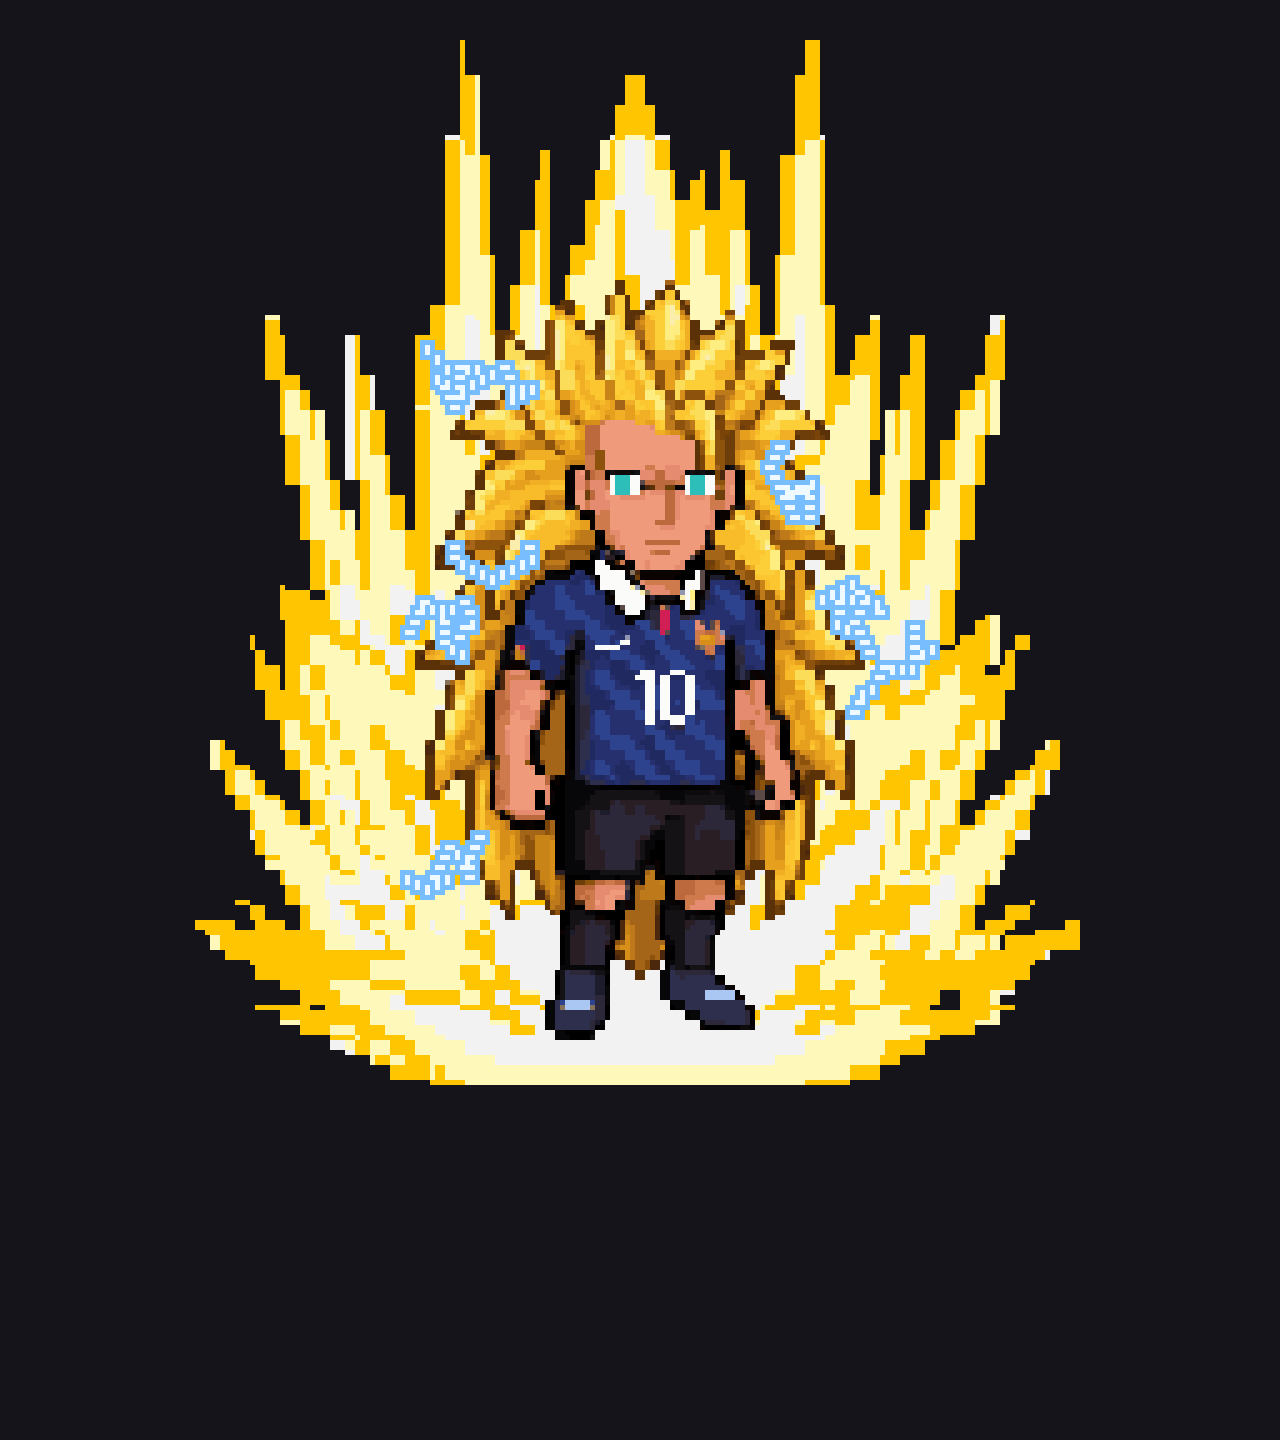
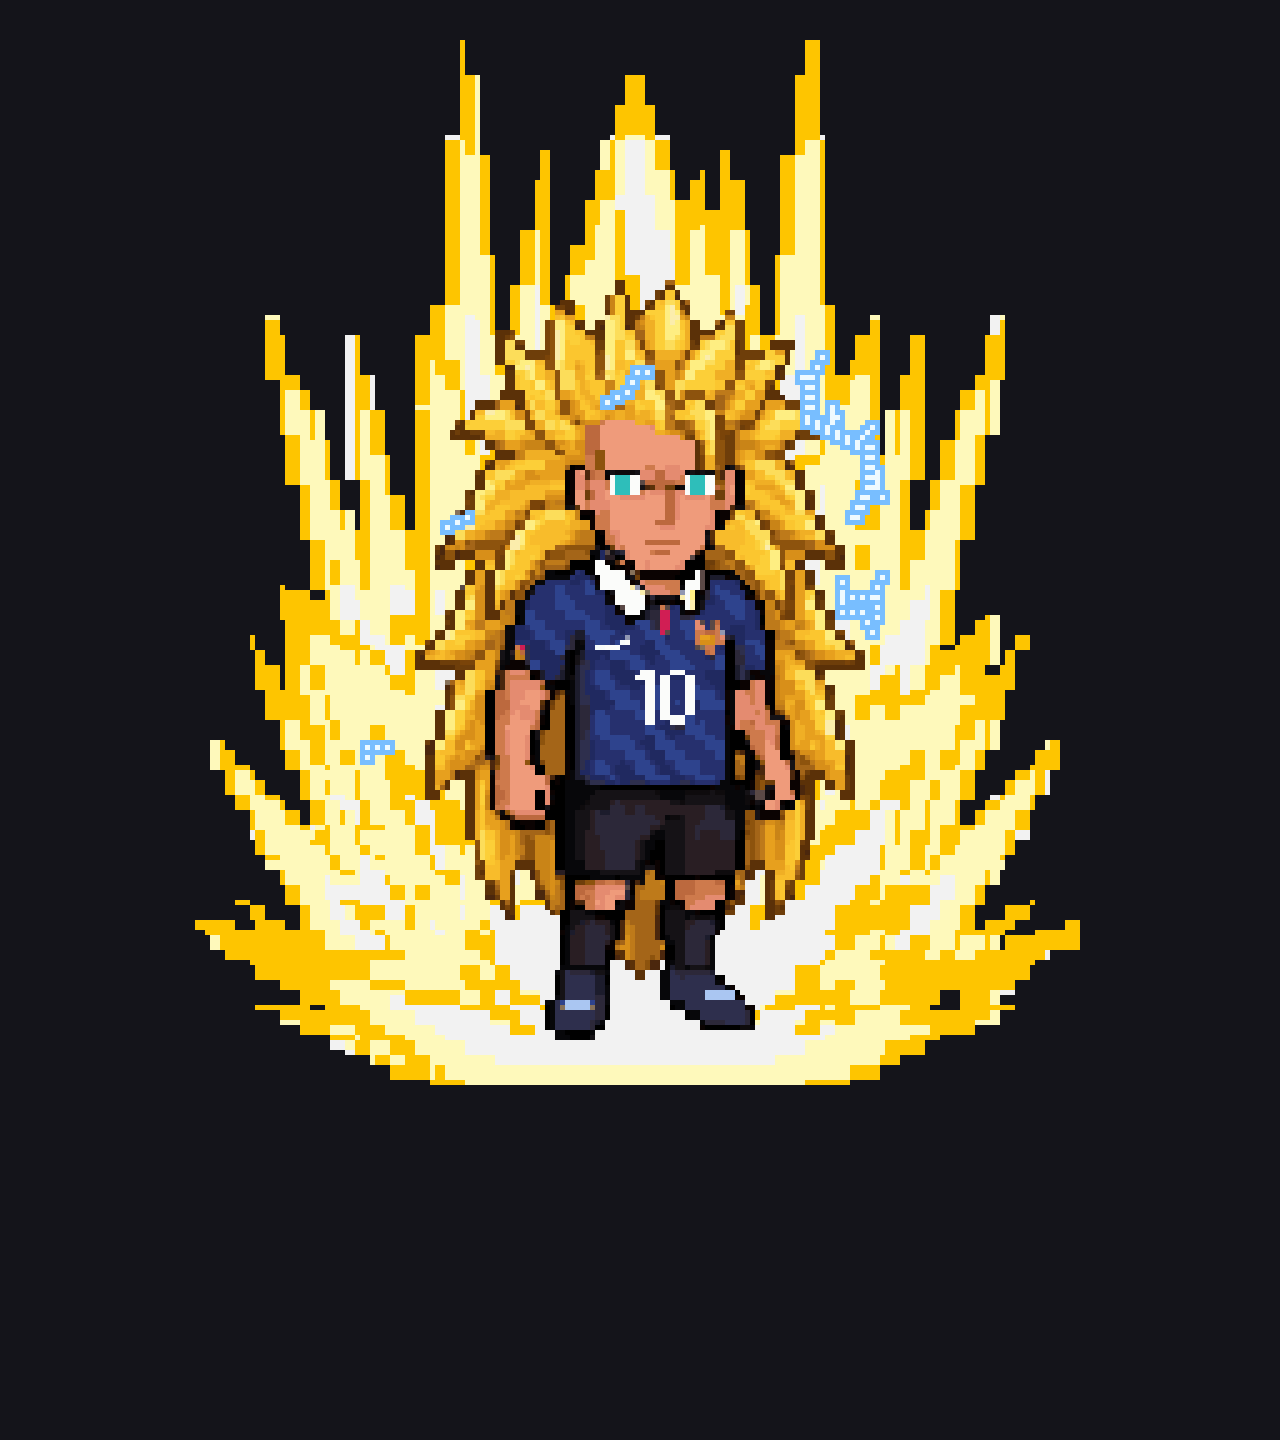
Replace the review page with the SSJ3 final lightning candidate

diff --git a/index.html b/index.html
@@ -1,4 +1,4 @@
-<title>SSJ3 Static Lightning</title>
+<title>SSJ3 Lightning Final</title>
 <style>
 :root{color-scheme:dark light;--bg:#101014;--panel:#1a1a21;--line:#2c2c36;
  --ink:#eef0f6;--dim:#9aa0ad;--gold:#e8b544;--arc:#8fd0ff}
@@ -18,33 +18,27 @@ figure{margin:0;background:var(--panel);border:1px solid var(--line);
  border-radius:10px;padding:10px}
 figcaption{color:var(--dim);font-size:11.5px;margin-top:8px}
 img{image-rendering:pixelated;display:block;border-radius:4px;max-width:100%;height:auto}
-.scroll{overflow-x:auto;padding-bottom:6px}
-.scroll figure{display:inline-block}
-.scroll img{max-width:none}
 .lead{max-width:72ch;color:var(--dim);margin:22px 0 0}
 </style>
-<h1>Current Review — SSJ3 Static Lightning Polish</h1>
-<p class="sha">Commit <code>44fc1d3</code></p>
-<p class="lead">SSJ3's electricity is now static discharge rather than sweeping bolts:
-about a quarter as many arcs, each roughly three times thicker, shorter, and clinging
-close to the body and hair. SSJ2 is unchanged.</p>
+<h1>Current Review — SSJ3 Lightning Final Polish</h1>
+<p class="sha">Commit <code>007ea20</code></p>
+<p class="lead">The stroke is about a fifth slimmer, and arc sizes now range from
+small pops to occasional long discharges rather than all being one size. Every frame
+carries a different mix. SSJ2 is unchanged.</p>
 
 <section>
 <h2>SSJ3 Charging Idle</h2>
-<p class="sub">Static crawling around the shoulders, arms and outer hair</p>
+<p class="sub">Slimmer stroke, varied arc sizes, still body-hugging static</p>
 <div class="row">
 <figure><img src="v4/seq/ssj3_idle/ssj3_idle_composite.gif" width="256" alt="SSJ3 idle">
 <figcaption>Normal speed</figcaption></figure>
 <figure><img src="v4/seq/ssj3_idle/ssj3_idle_composite_slow.gif" width="256" alt="SSJ3 idle slow">
 <figcaption>Slow</figcaption></figure>
 </div>
-<div class="row scroll"><figure><img src="v4/seq/closeups/ssj3_static_arcs_6x.png"
-alt="SSJ3 arc close-up"><figcaption>Arc character, 6&times;</figcaption></figure></div>
 </section>
 
 <section>
 <h2>SSJ2 &rarr; SSJ3</h2>
-<p class="sub">Arcs step up from the approved SSJ2 lightning to SSJ3 static</p>
 <div class="row">
 <figure><img src="v4/seq/ssj2_to_ssj3/ssj2_to_ssj3_composite.gif" width="256" alt="SSJ2 to SSJ3">
 <figcaption>Normal speed</figcaption></figure>
@@ -54,14 +48,7 @@ alt="SSJ3 arc close-up"><figcaption>Arc character, 6&times;</figcaption></figure
 </section>
 
 <section>
-<h2>SSJ3 stills</h2>
-<p class="sub">Large frames for inspecting the new arcs</p>
-<div class="row"><figure><img src="v4/seq/closeups/ssj3_still_1_5x.png" width="360" alt="SSJ3 still 1"><figcaption>Frame 01</figcaption></figure><figure><img src="v4/seq/closeups/ssj3_still_3_5x.png" width="360" alt="SSJ3 still 3"><figcaption>Frame 03</figcaption></figure><figure><img src="v4/seq/closeups/ssj3_still_5_5x.png" width="360" alt="SSJ3 still 5"><figcaption>Frame 05</figcaption></figure><figure><img src="v4/seq/closeups/ssj3_still_7_5x.png" width="360" alt="SSJ3 still 7"><figcaption>Frame 07</figcaption></figure></div>
-</section>
-
-<section>
-<h2>Hierarchy reference</h2>
-<p class="sub">SSJ2 (unchanged) beside SSJ3 (new) &mdash; same crop and scale</p>
-<div class="row scroll"><figure><img src="v4/seq/closeups/hierarchy_ssj2_ssj3_6x.png"
-alt="SSJ2 beside SSJ3"><figcaption>SSJ2 &middot; SSJ3 &mdash; 6&times;</figcaption></figure></div>
+<h2>All eight SSJ3 frames</h2>
+<p class="sub">Each frame carries a different mix of arc sizes</p>
+<div class="row"><figure><img src="v4/seq/closeups/ssj3_still_0_5x.png" width="300" alt="SSJ3 frame 0"><figcaption>Frame 00</figcaption></figure><figure><img src="v4/seq/closeups/ssj3_still_1_5x.png" width="300" alt="SSJ3 frame 1"><figcaption>Frame 01</figcaption></figure><figure><img src="v4/seq/closeups/ssj3_still_2_5x.png" width="300" alt="SSJ3 frame 2"><figcaption>Frame 02</figcaption></figure><figure><img src="v4/seq/closeups/ssj3_still_3_5x.png" width="300" alt="SSJ3 frame 3"><figcaption>Frame 03</figcaption></figure><figure><img src="v4/seq/closeups/ssj3_still_4_5x.png" width="300" alt="SSJ3 frame 4"><figcaption>Frame 04</figcaption></figure><figure><img src="v4/seq/closeups/ssj3_still_5_5x.png" width="300" alt="SSJ3 frame 5"><figcaption>Frame 05</figcaption></figure><figure><img src="v4/seq/closeups/ssj3_still_6_5x.png" width="300" alt="SSJ3 frame 6"><figcaption>Frame 06</figcaption></figure><figure><img src="v4/seq/closeups/ssj3_still_7_5x.png" width="300" alt="SSJ3 frame 7"><figcaption>Frame 07</figcaption></figure></div>
 </section>
